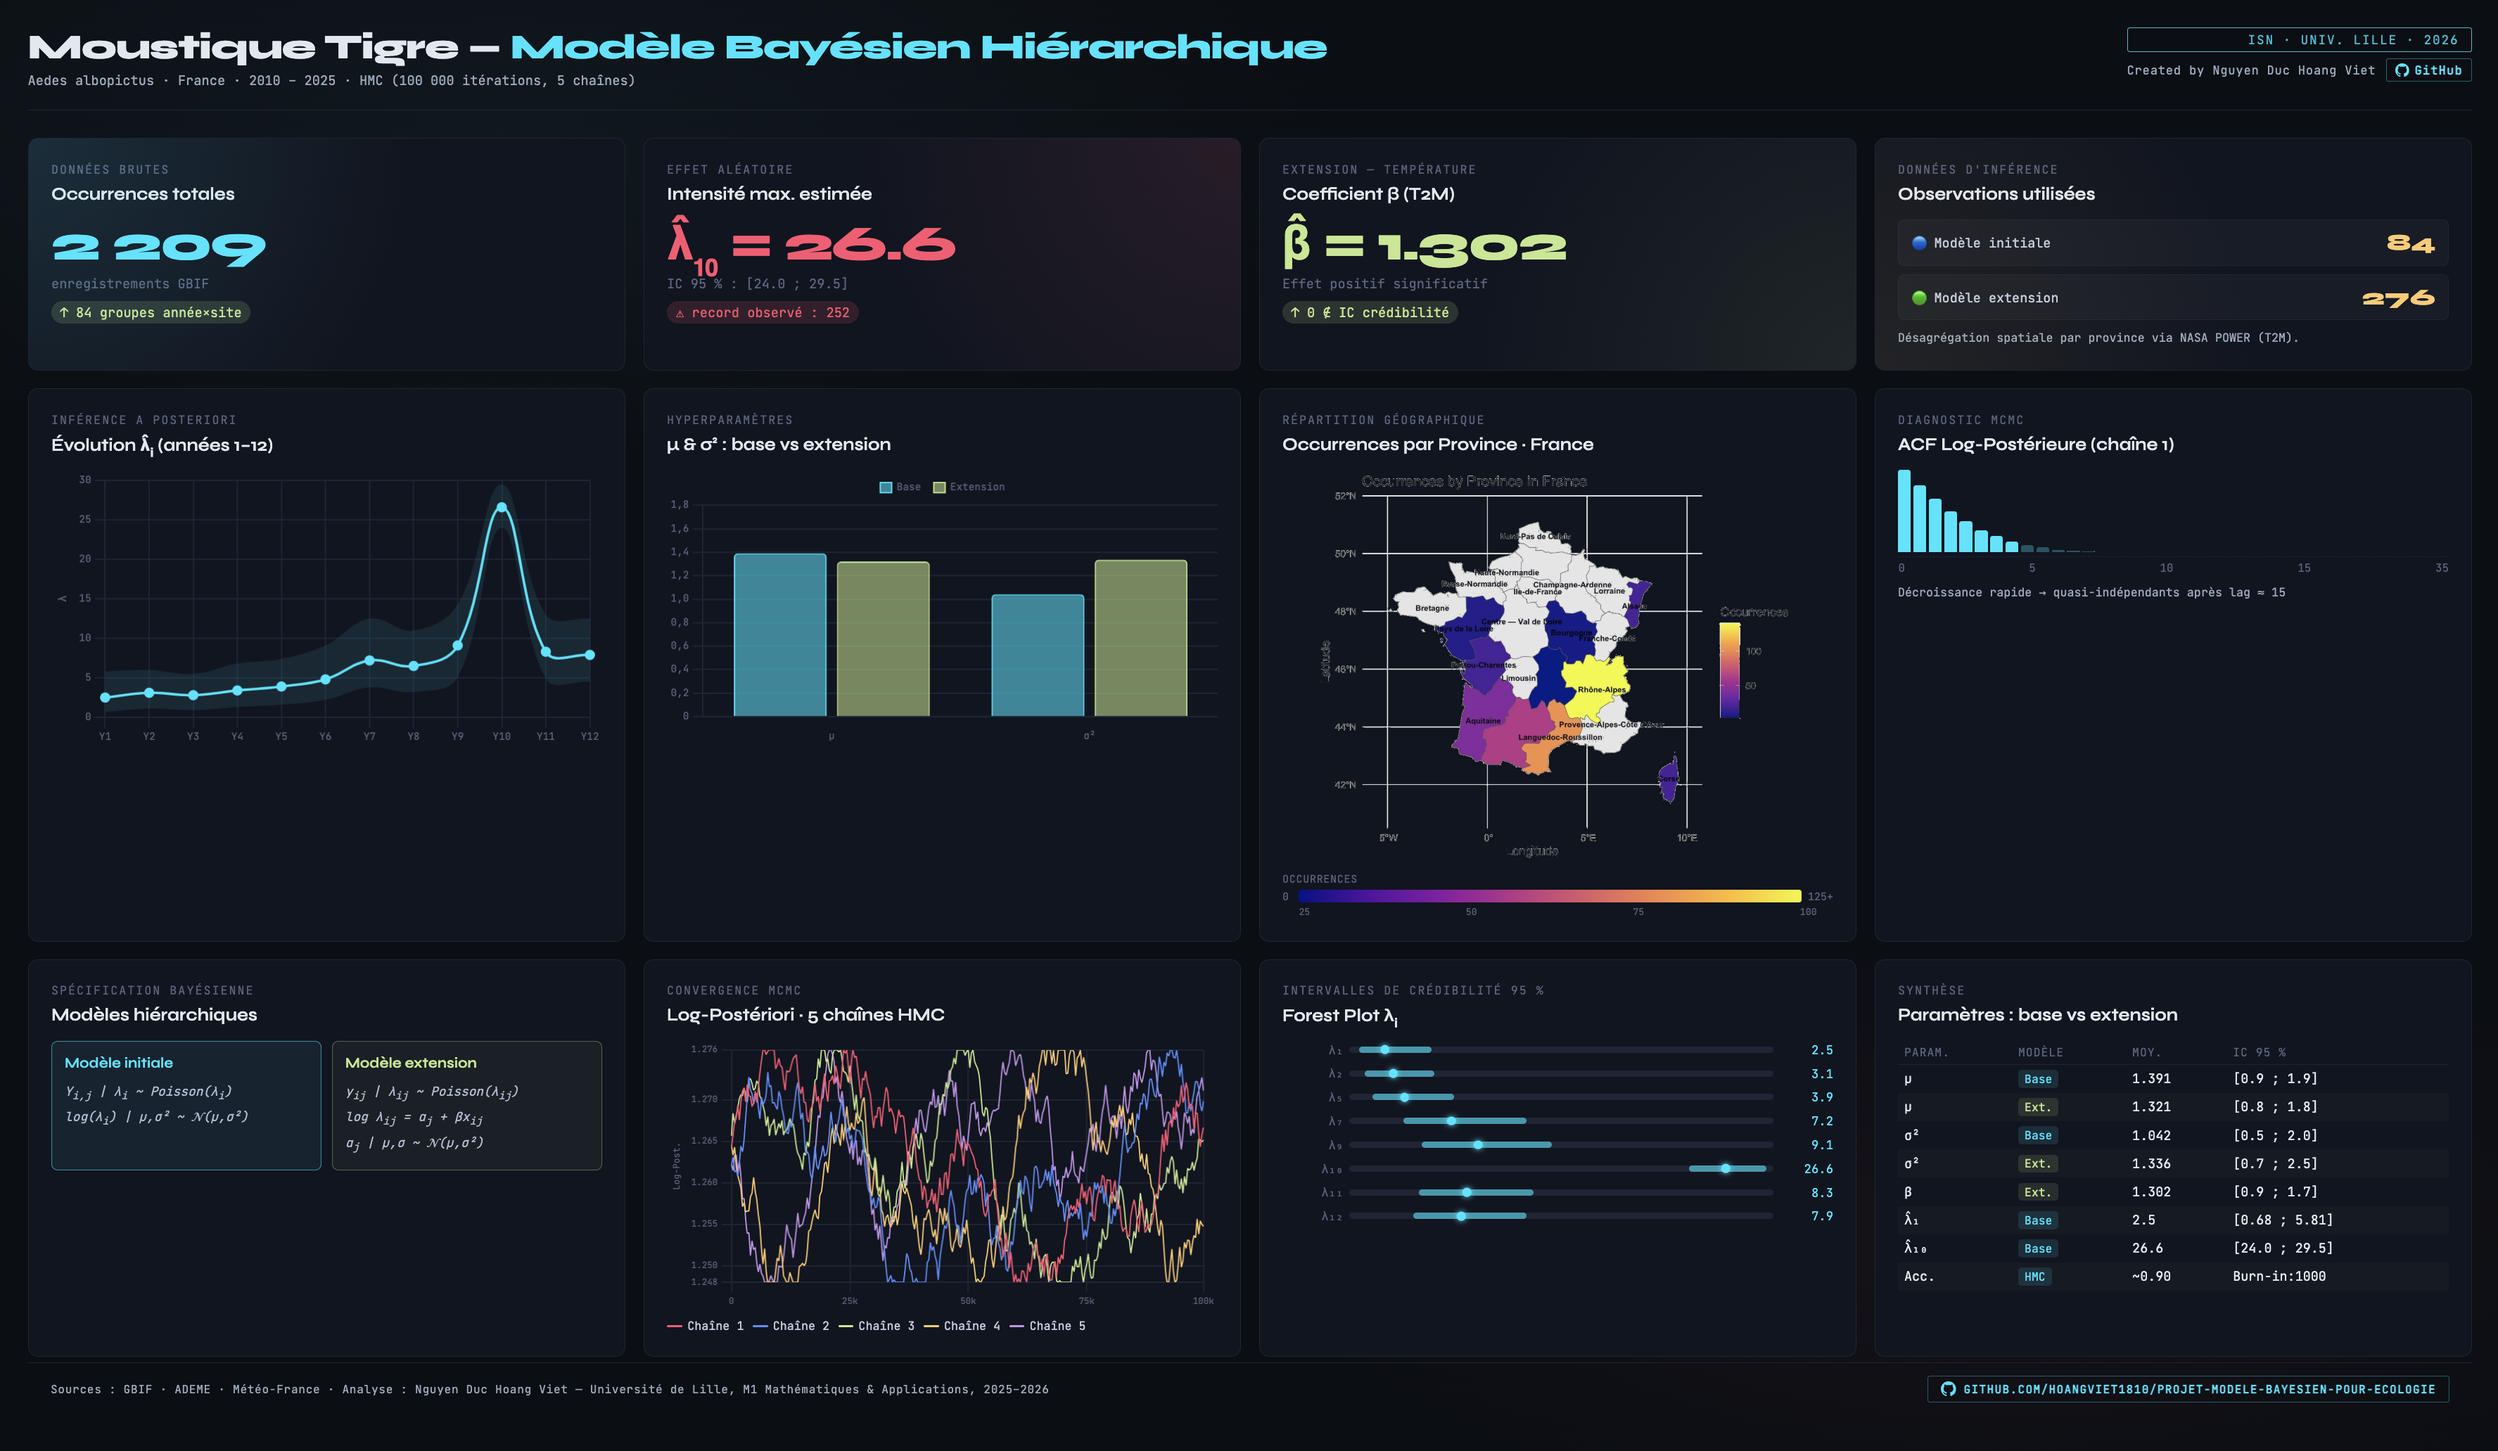
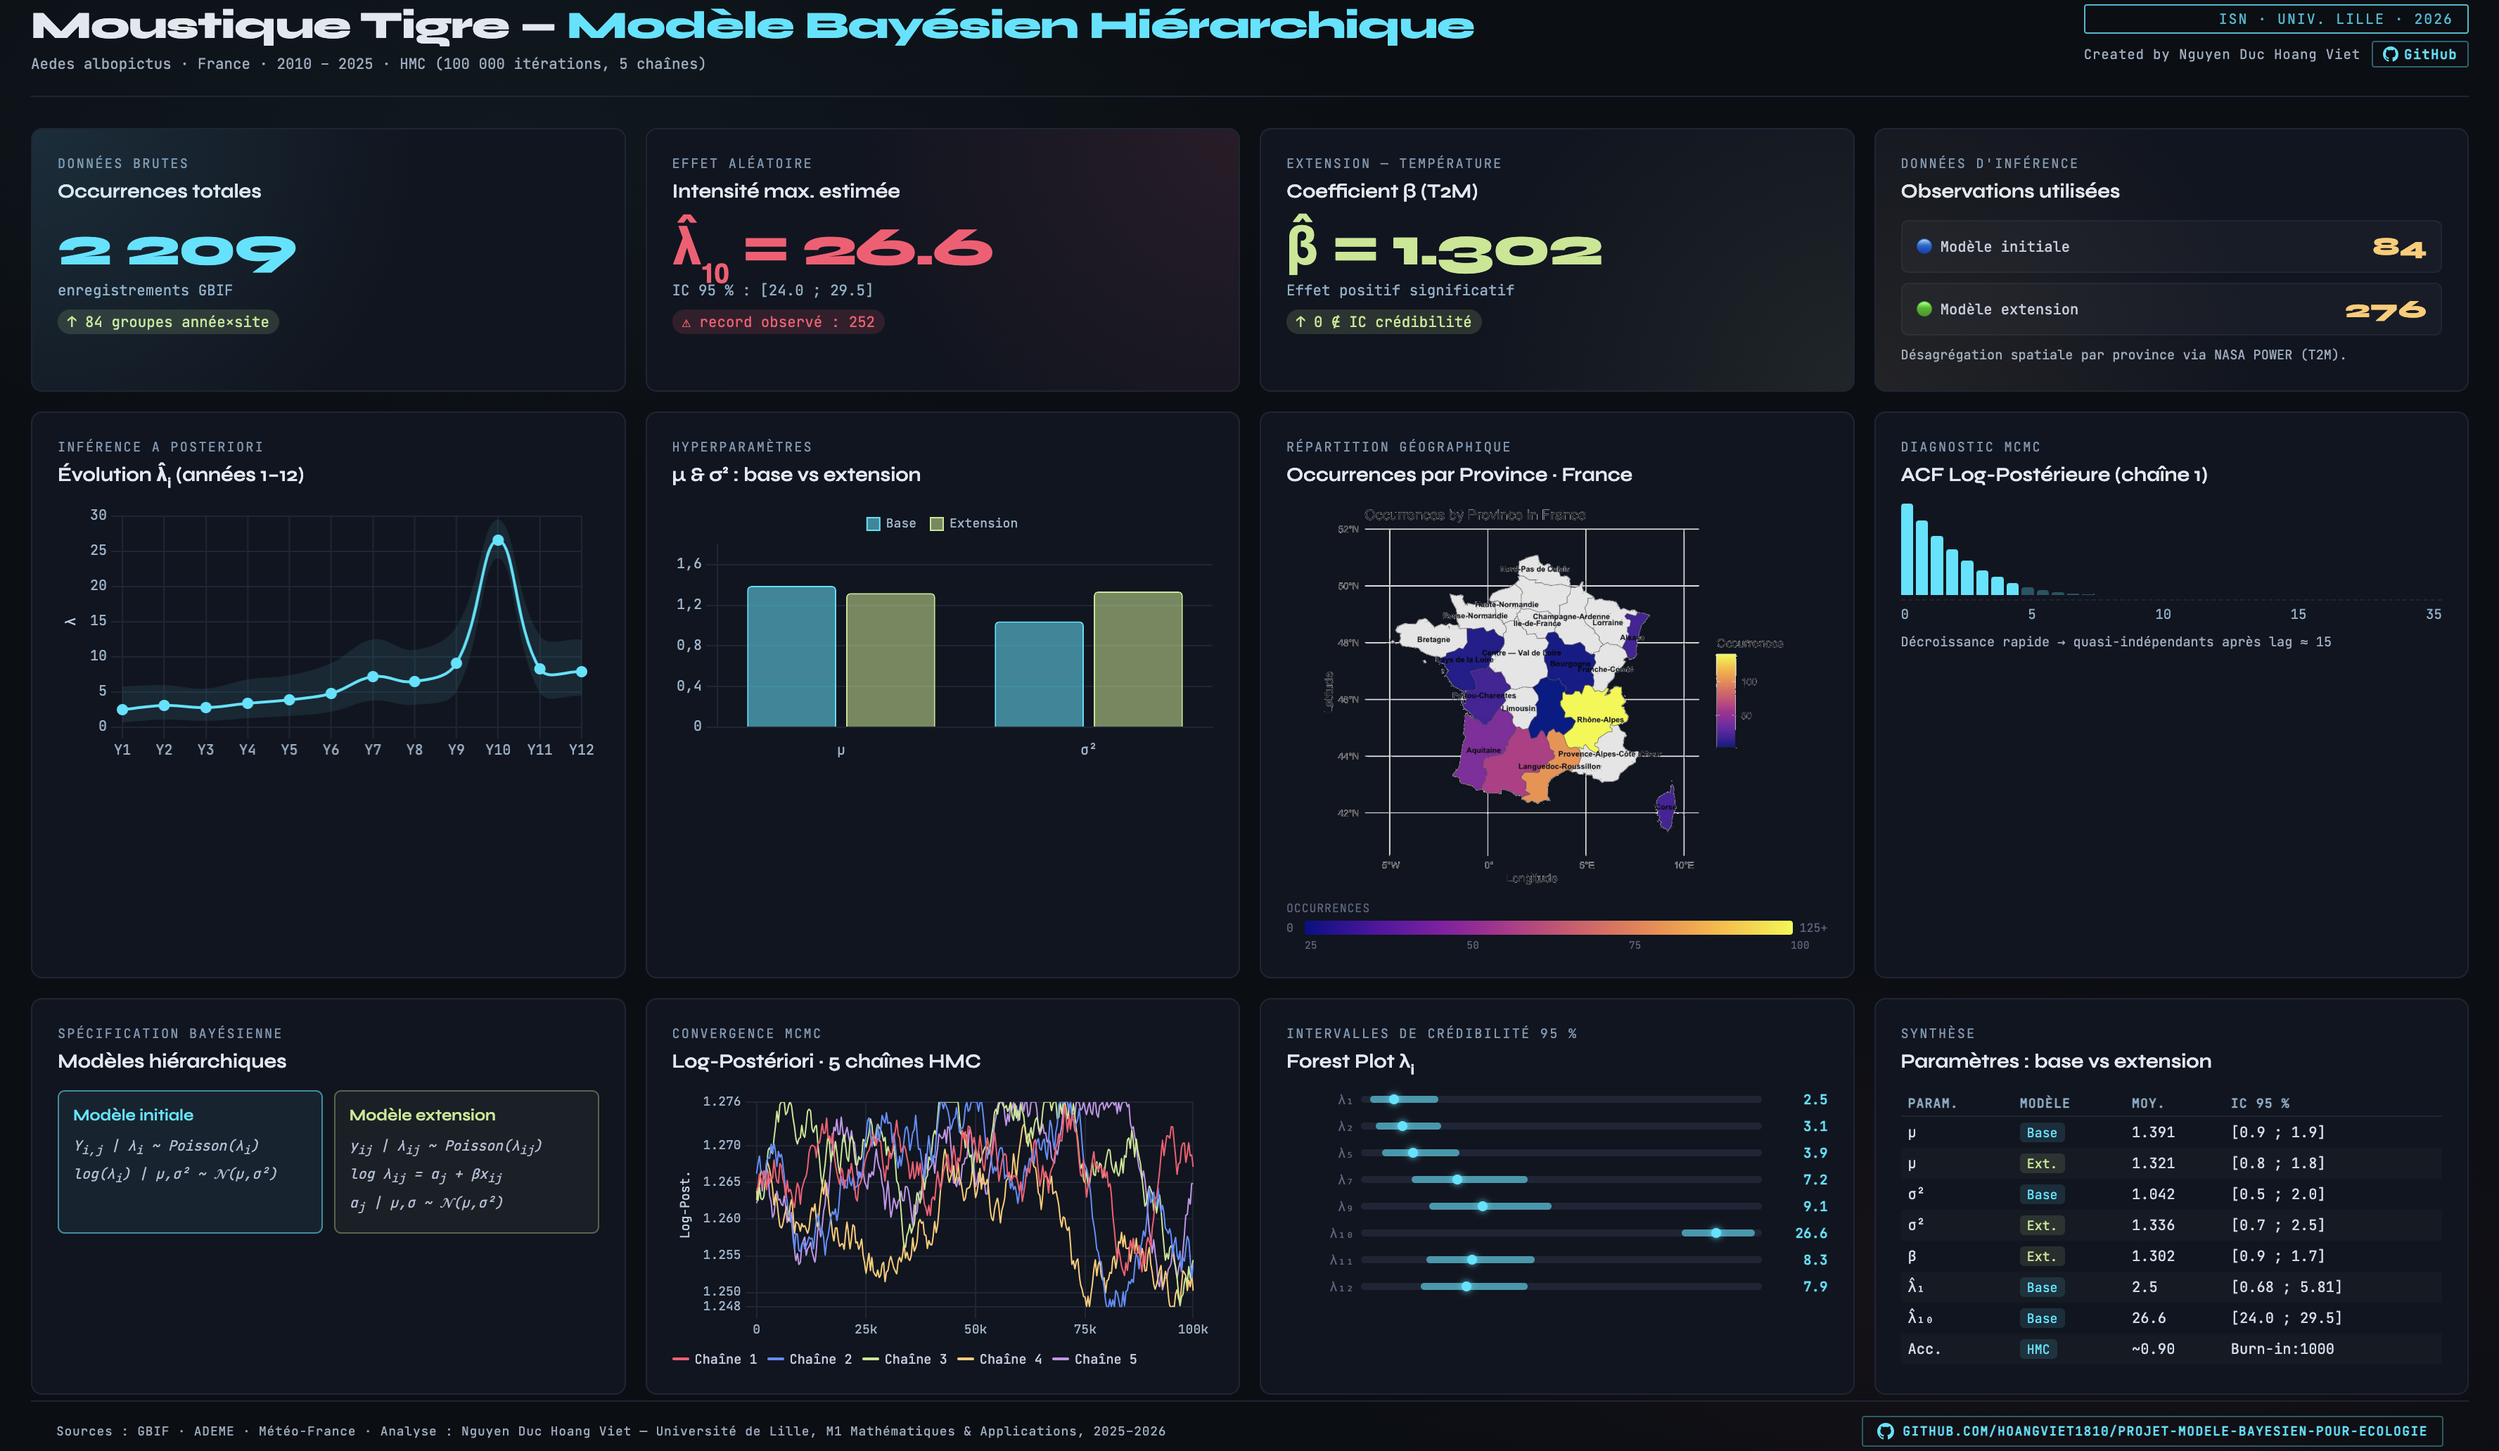
add file

diff --git a/images/prototype/Bản sao dashboard_moustique 3.html b/images/prototype/Bản sao dashboard_moustique 3.html
@@ -102,7 +102,7 @@
 
   .card-label {
     font-size: .58rem; letter-spacing: .12em; text-transform: uppercase;
-    color: #7a95b0; margin-bottom: 5px;  /* sáng hơn --muted */
+    color: var(--muted); margin-bottom: 5px;
   }
   .card-title {
     font-family: 'Syne', sans-serif; font-size: .88rem; font-weight: 600;
@@ -115,7 +115,7 @@
   .kpi-val.red   { color: var(--accent2); }
   .kpi-val.green { color: var(--accent3); }
   .kpi-val.amber { color: var(--accent4); }
-  .kpi-sub { font-size:.65rem; color:#8aaec8; margin-top:5px; }
+  .kpi-sub { font-size:.65rem; color:var(--muted); margin-top:5px; }
   .kpi-delta {
     display:inline-block; font-size:.65rem; margin-top:7px; padding:2px 7px; border-radius:20px;
   }
@@ -145,13 +145,13 @@
     width:7px; height:7px; border-radius:50%;
     background:var(--accent1); box-shadow:0 0 5px var(--accent1); z-index:2;
   }
-  .fp-val { color:var(--accent1); text-align:right; font-weight:600; }
+  .fp-val { color:var(--accent1); text-align:right; }
 
   /* Table */
   table { width:100%; border-collapse:collapse; font-size:.64rem; }
   thead tr { border-bottom:1px solid var(--border); }
-  th { color:#8aaec8; text-align:left; padding:3px 5px; font-weight:600; letter-spacing:.06em; font-size:.57rem; text-transform:uppercase; }
-  td { padding:4px 5px; color:#ccdae8; }
+  th { color:var(--muted); text-align:left; padding:3px 5px; font-weight:400; letter-spacing:.06em; font-size:.57rem; text-transform:uppercase; }
+  td { padding:4px 5px; color:var(--text); }
   tr:nth-child(even) td { background:rgba(255,255,255,.02); }
   .tag { display:inline-block; padding:1px 5px; border-radius:3px; font-size:.57rem; }
   .tag.base { background:rgba(0,229,255,.12);   color:var(--accent1); }
@@ -162,7 +162,7 @@
   .acf-bar  { flex:1; border-radius:2px 2px 0 0; }
   .acf-axis {
     border-top:1px dashed var(--border); margin-top:3px; padding-top:3px;
-    display:flex; justify-content:space-between; font-size:.6rem; color:#8aaec8;
+    display:flex; justify-content:space-between; font-size:.55rem; color:var(--muted);
   }
 
   /* Model boxes */
@@ -472,14 +472,10 @@
 const C1='#00e5ff', C2='#ff5370', C3='#c3e88d', C4='#ffcb6b';
 const SURFACE='#111520', BORDER='#1e2535', MUTED='#5a6580';
 
-/* ── Màu tick rõ hơn MUTED ── */
-const TICK  = '#9ab4cc';   /* ticks trục — sáng, đủ tương phản */
-const TITLE = '#b8ccde';   /* title trục — hơi sáng hơn tick */
-
-Chart.defaults.color      = TICK;          /* tất cả label mặc định */
+Chart.defaults.color = MUTED;
 Chart.defaults.borderColor = BORDER;
 Chart.defaults.font.family = "'JetBrains Mono', monospace";
-Chart.defaults.font.size   = 10;           /* 9 → 10 */
+Chart.defaults.font.size = 9;
 
 /* ── C5 : Lambda line ── */
 const lambdaData  = [2.5,3.1,2.8,3.4,3.9,4.8,7.2,6.5,9.1,26.6,8.3,7.9];
@@ -500,8 +496,8 @@ new Chart(document.getElementById('chartLambda'),{
     responsive:true,
     plugins:{ legend:{display:false}, tooltip:{ callbacks:{ label:(c)=> c.dataset.label==='λ̂ᵢ'?`λ̂=${c.parsed.y}`:'' }}},
     scales:{
-      x:{ grid:{color:BORDER}, ticks:{color:TICK, font:{size:10}, maxRotation:0} },
-      y:{ grid:{color:BORDER}, ticks:{color:TICK, font:{size:10}}, title:{display:true,text:'λ',color:TITLE,font:{size:10}} }
+      x:{ grid:{color:BORDER}, ticks:{color:MUTED,font:{size:8}} },
+      y:{ grid:{color:BORDER}, ticks:{color:MUTED,font:{size:8}}, title:{display:true,text:'λ',color:MUTED} }
     }
   }
 });
@@ -518,10 +514,10 @@ new Chart(document.getElementById('chartParams'),{
   },
   options:{
     responsive:true,
-    plugins:{ legend:{ labels:{ color:TICK, font:{size:9}, boxWidth:9 }}},
+    plugins:{ legend:{ labels:{ color:MUTED, font:{size:8}, boxWidth:9 }}},
     scales:{
-      x:{ grid:{display:false}, ticks:{color:TICK, font:{size:10}} },
-      y:{ grid:{color:BORDER},  ticks:{color:TICK, font:{size:10}}, suggestedMax:1.8 }
+      x:{ grid:{display:false}, ticks:{color:MUTED,font:{size:8}} },
+      y:{ grid:{color:BORDER},  ticks:{color:MUTED,font:{size:8}}, suggestedMax:1.8 }
     }
   }
 });
@@ -668,9 +664,9 @@ new Chart(document.getElementById('tracePlotCanvas'),{
     responsive:true, animation:{duration:1200},
     plugins:{ legend:{display:false} },
     scales:{
-      x:{ grid:{color:BORDER}, ticks:{color:TICK, font:{size:9}, callback:(v,i)=>tLabels[i]||null, maxTicksLimit:6} },
-      y:{ grid:{color:BORDER}, ticks:{color:TICK, font:{size:9}}, min:1248, max:1276,
-          title:{display:true,text:'Log-Post.',color:TITLE,font:{size:9}} }
+      x:{ grid:{color:BORDER}, ticks:{color:MUTED,font:{size:7}, callback:(v,i)=>tLabels[i]||null, maxTicksLimit:6} },
+      y:{ grid:{color:BORDER}, ticks:{color:MUTED,font:{size:7}}, min:1248, max:1276,
+          title:{display:true,text:'Log-Post.',color:MUTED,font:{size:7}} }
     }
   }
 });
